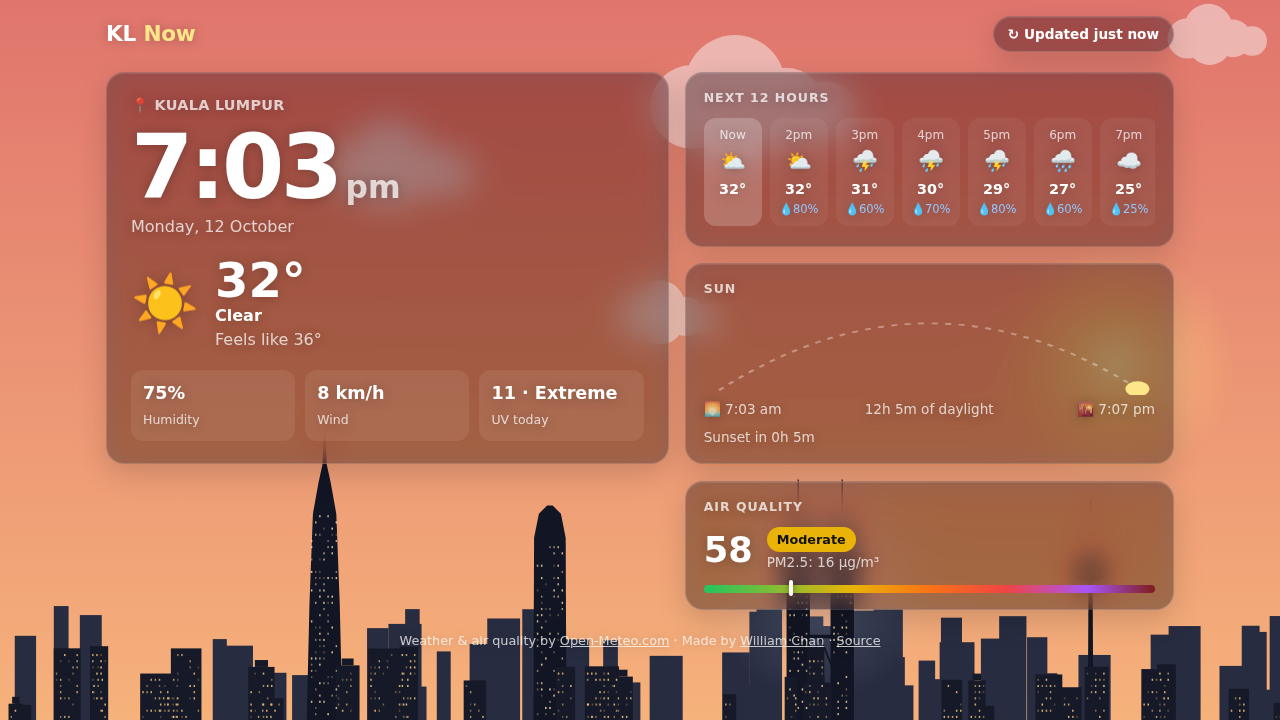
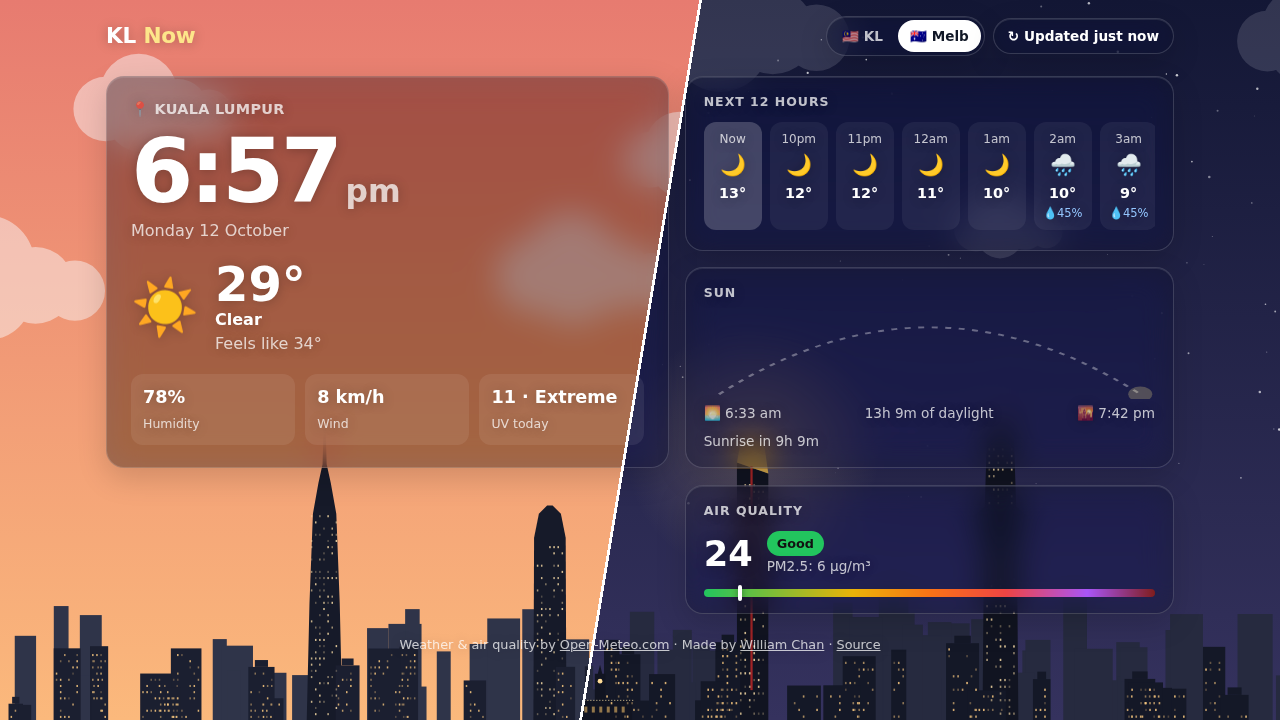
Update KL Now project description and image

diff --git a/src/content/projects/kl-now.md b/src/content/projects/kl-now.md
@@ -7,4 +7,4 @@ repo: https://github.com/williamchan24/kl-now
 order: 3
 ---
 
-Kuala Lumpur, right now: live time, weather, rain forecast, sunset and air quality, over an animated sky that follows the real time and weather in KL, with the city skyline lighting up at night.
+Kuala Lumpur and Melbourne, right now. Live time, weather, rain forecast, sunset and air quality, all over an animated sky that follows each city's real time and weather. Flip between 🇲🇾 KL and 🇦🇺 Melbourne, and watch each skyline light up at night.
